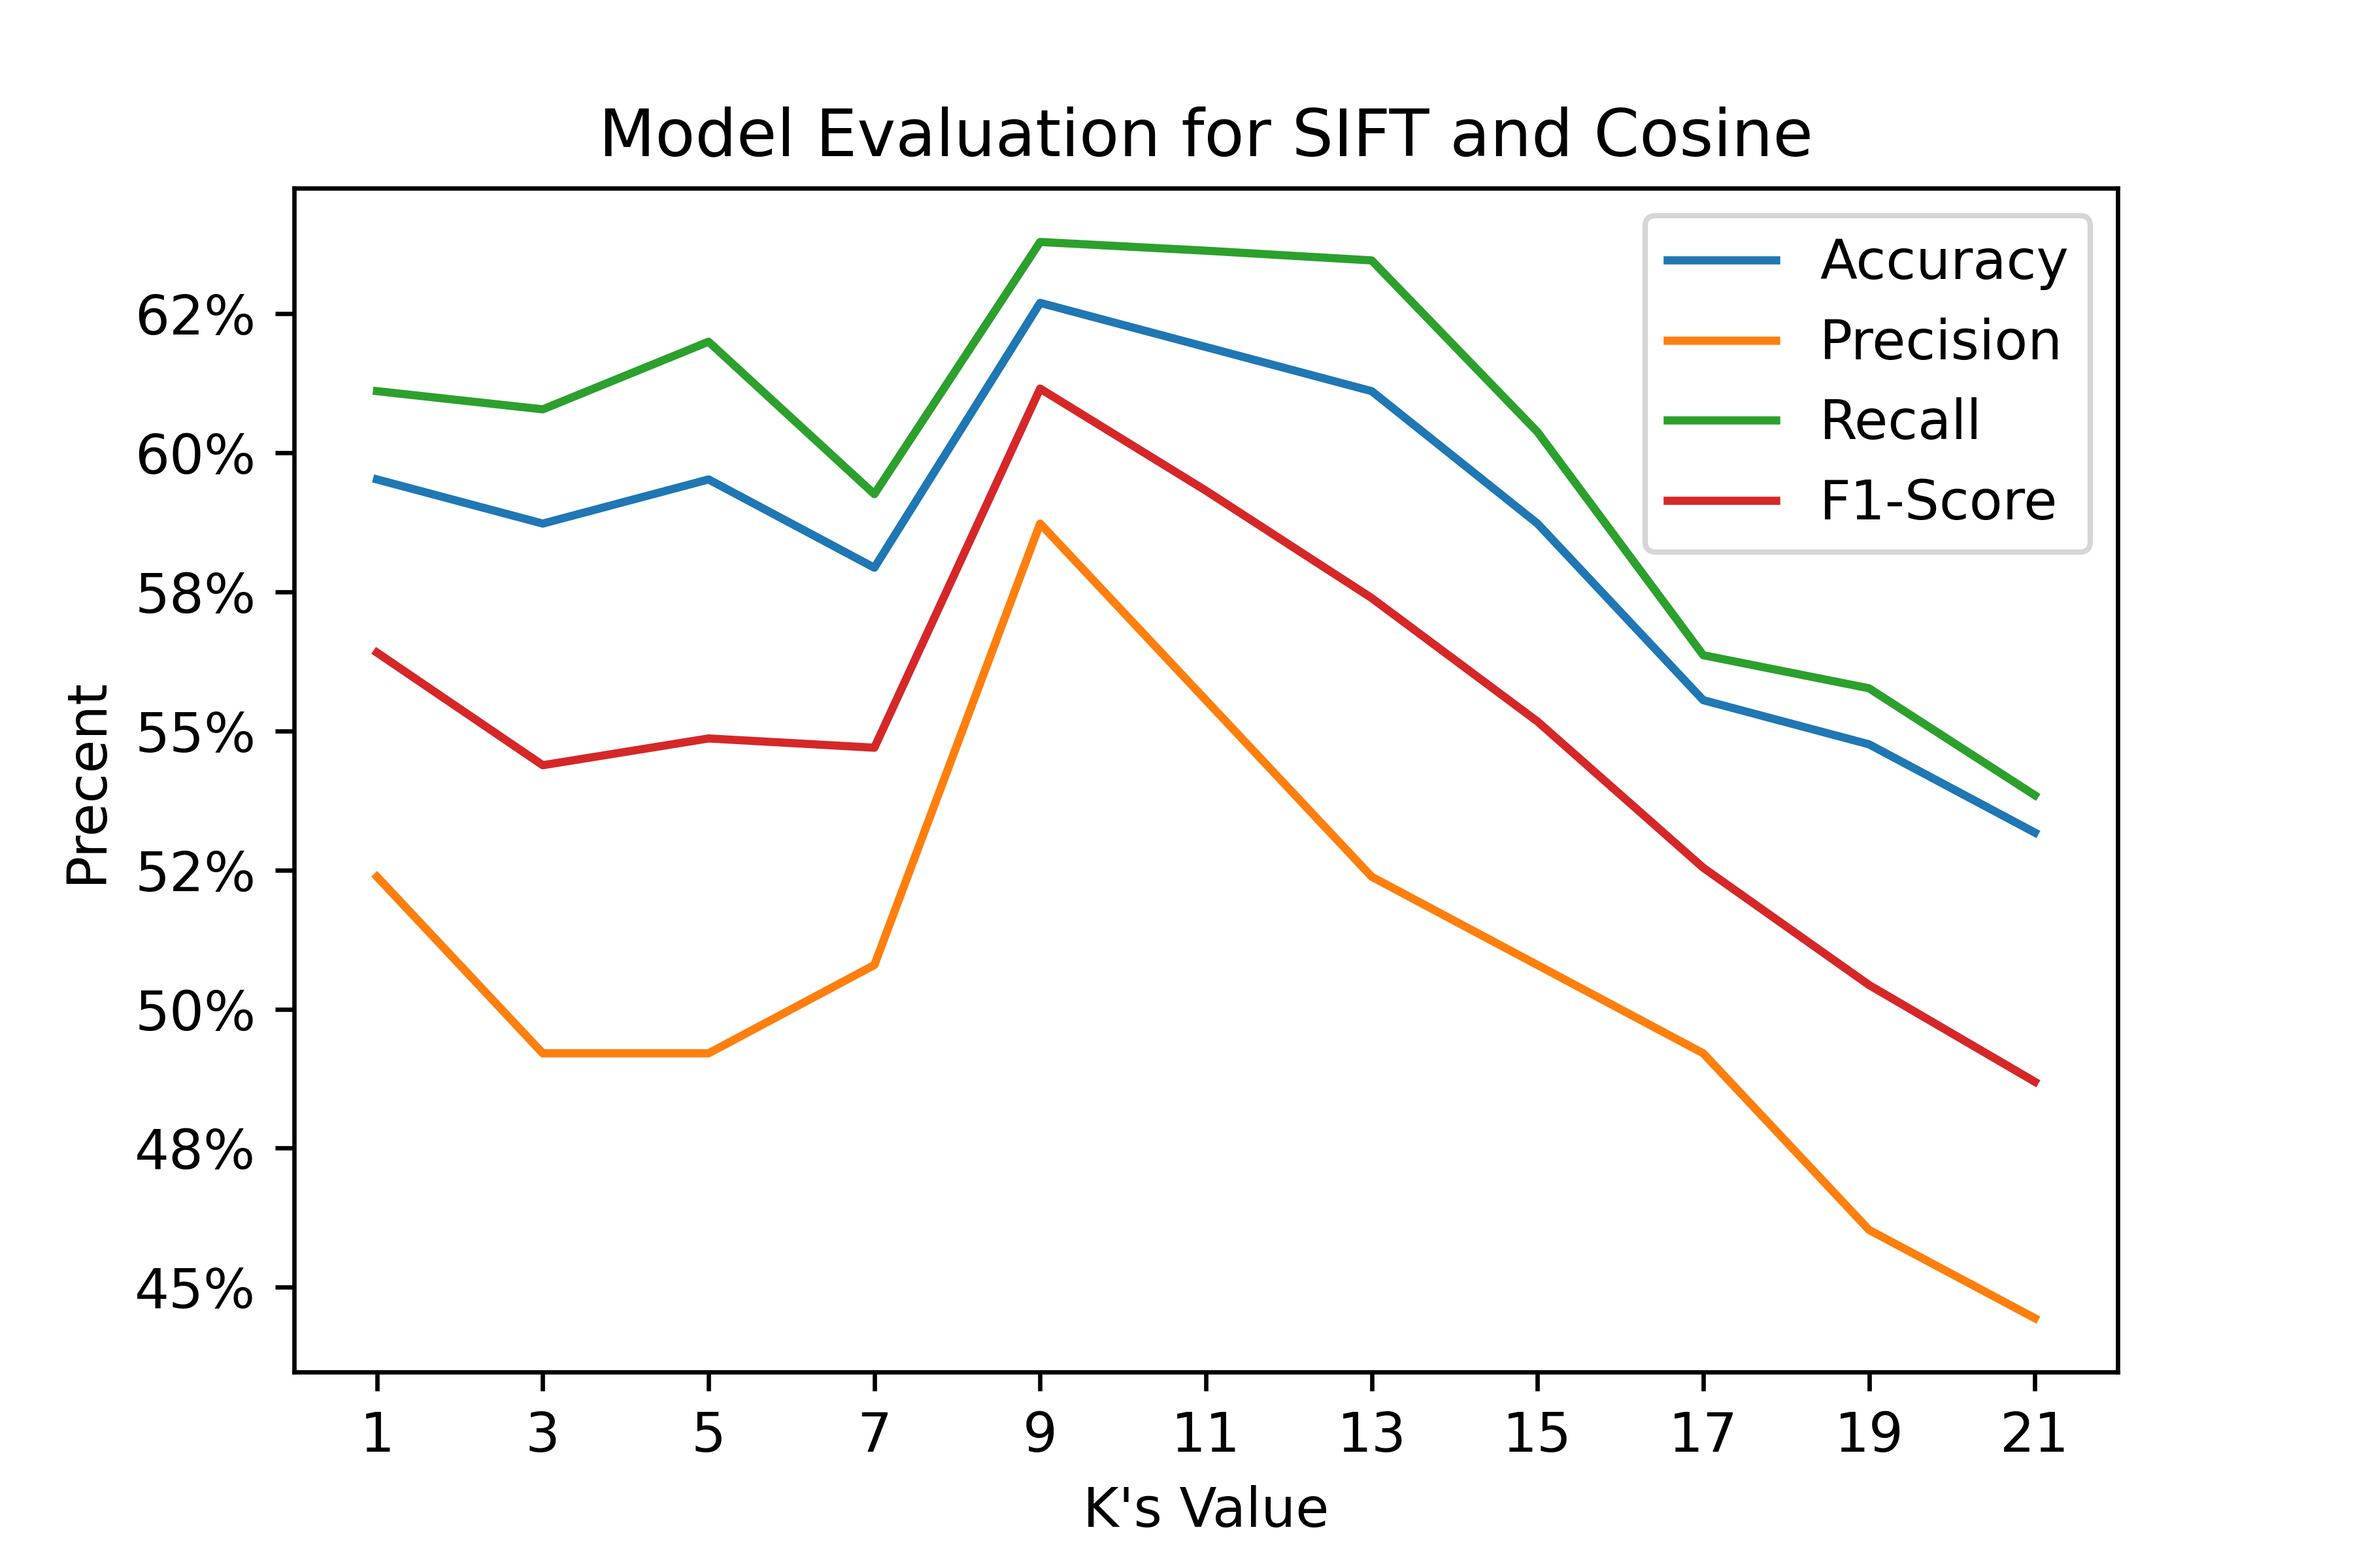
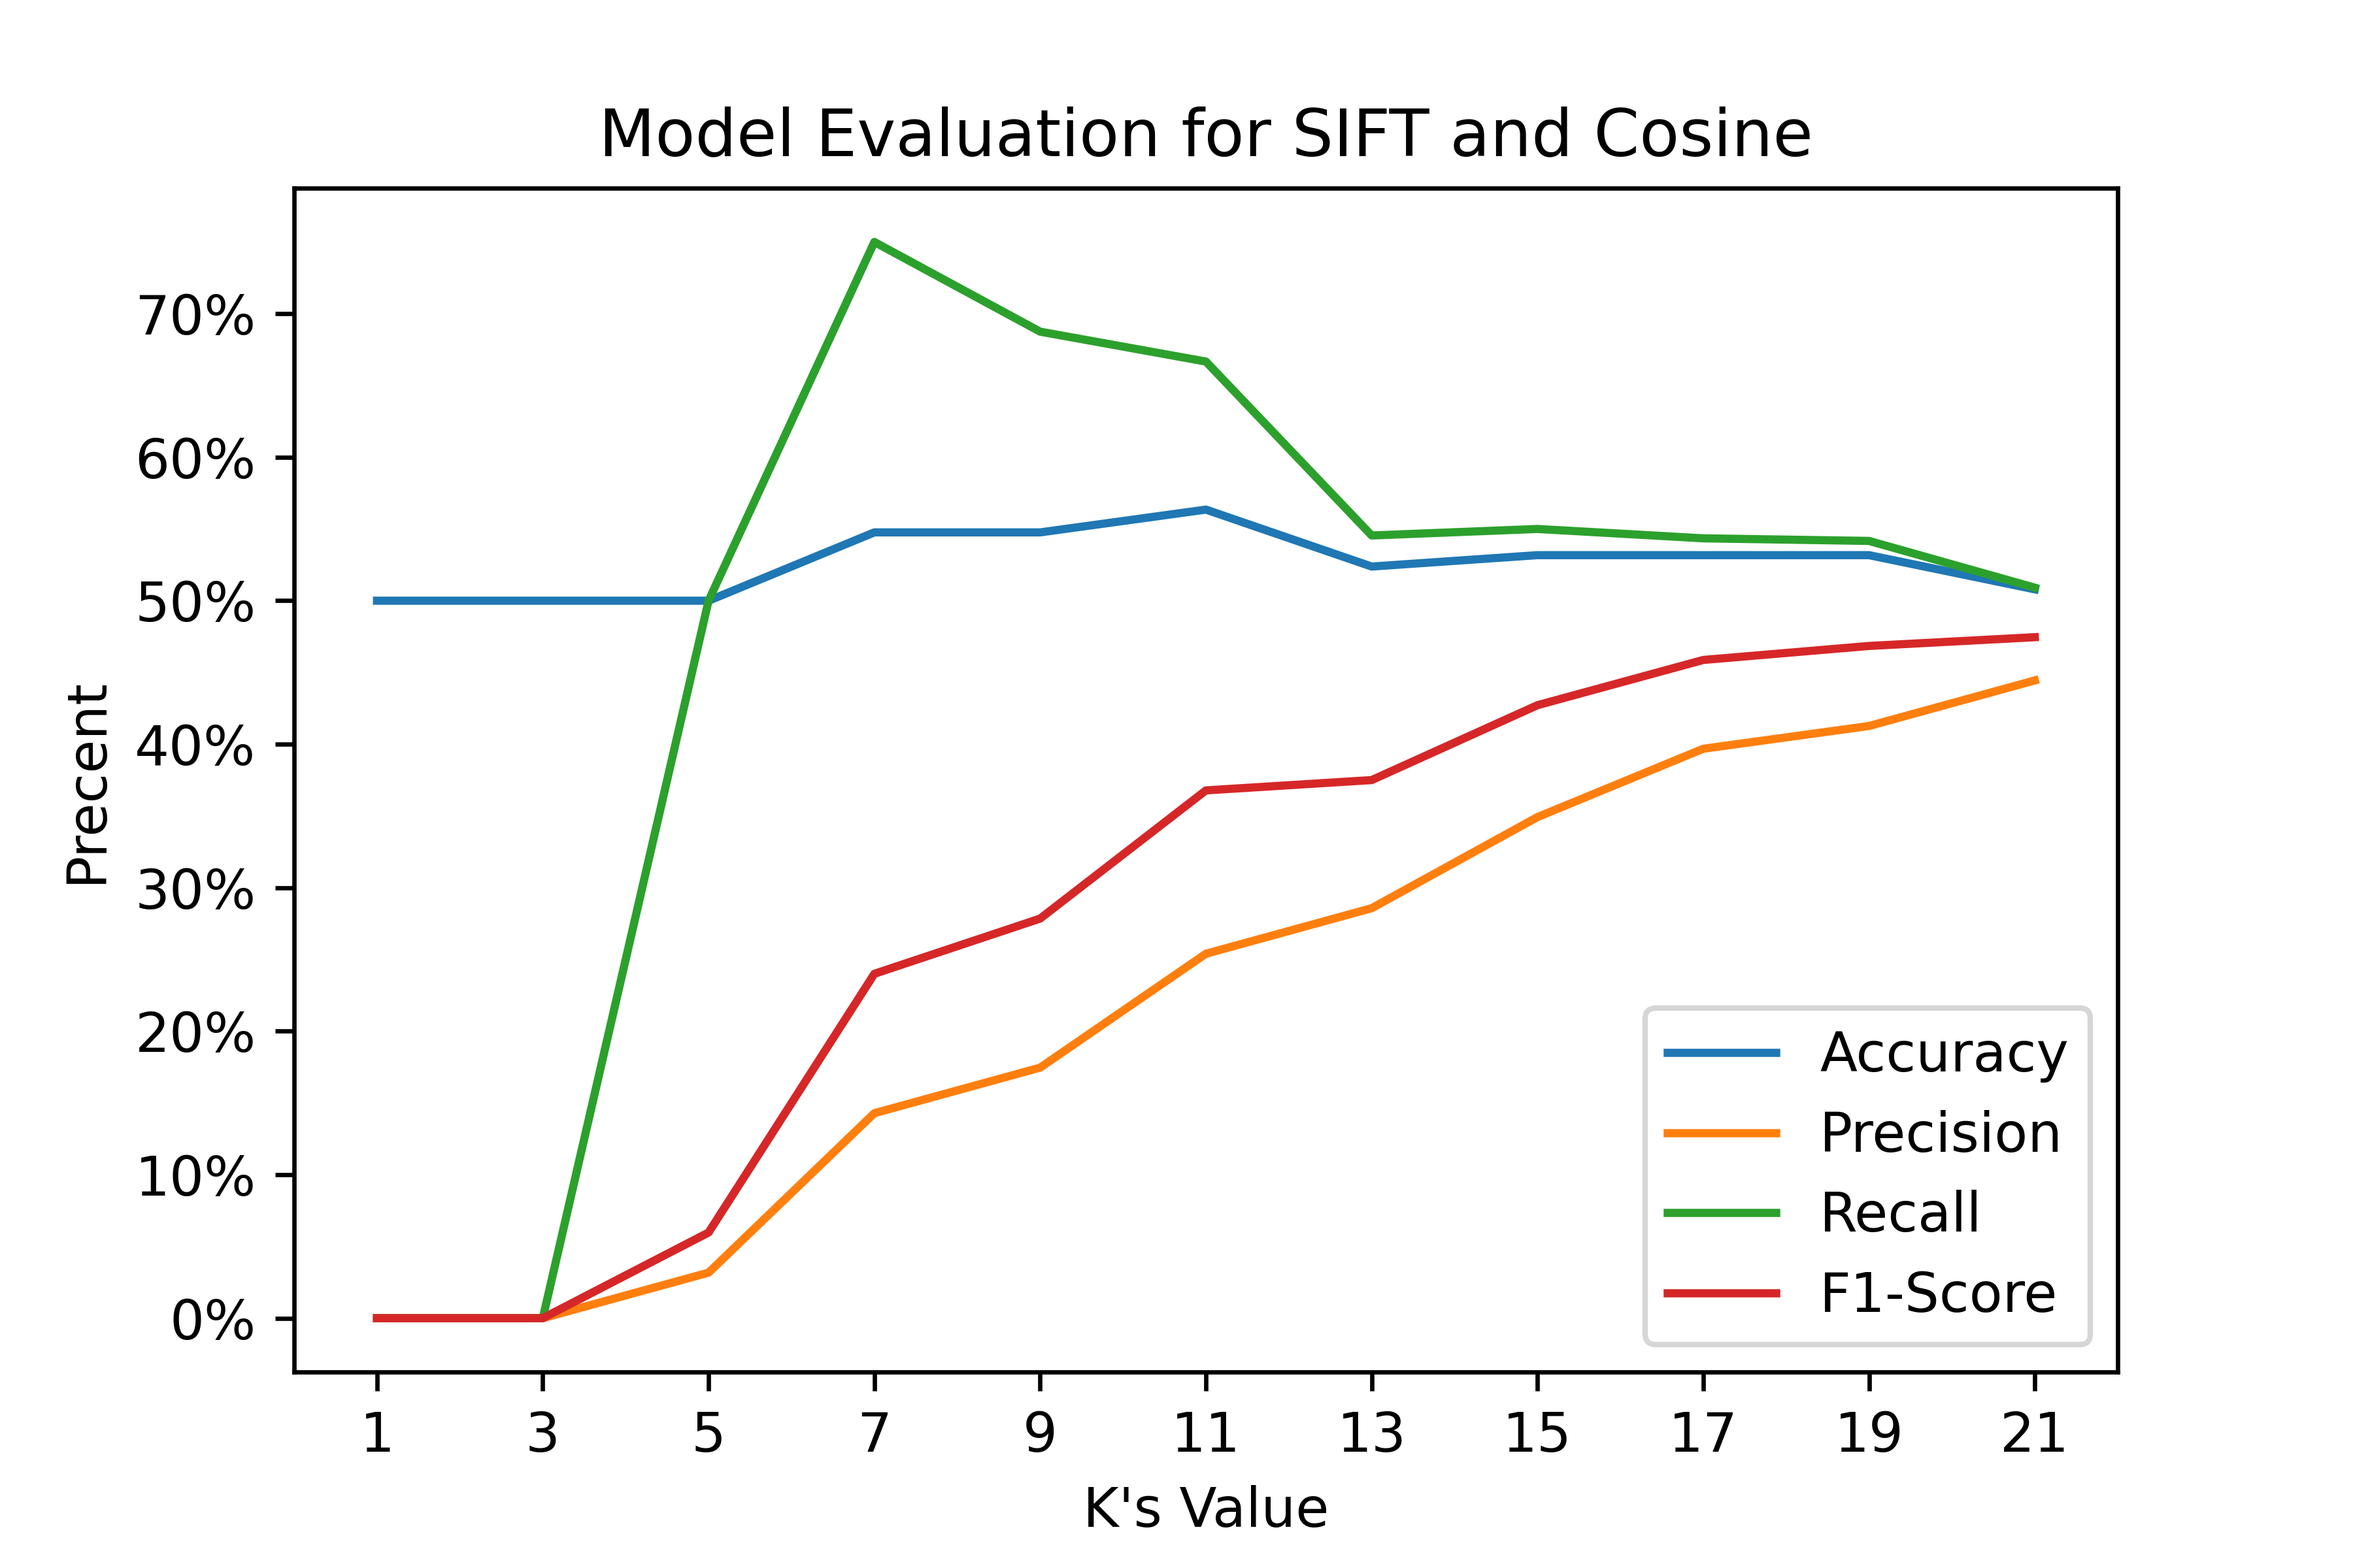
update

diff --git a/verification.py b/verification.py
@@ -3,9 +3,23 @@ from statistics import mode
 import json
 
 
-
 with open("./setting.json") as json_obj:
     mySetting = json.load(json_obj)
+
+def cal_distance(distance_type, point1, point2):
+    if distance_type == "Manhattan":     # Manhattan Distance
+        return np.sum(np.abs(point1 - point2))
+    
+    elif distance_type == "Euclidean":   # Euclidean Distance
+        return np.sqrt(np.sum(np.square(point1 - point2)))
+    
+    elif distance_type == "Chebyshev":   # Chebyshev Distance
+        return np.max(np.abs(point1 - point2))         
+    
+    elif distance_type == "Cosine":   # Cosine Distance
+        up = np.dot(point1, point2)           
+        down = np.sqrt(np.sum(np.square(point1))) * np.sqrt(np.sum(np.square(point2)))
+        return up/down
 
 
 for feature_type in mySetting["str_feature_type"]:
@@ -23,7 +37,8 @@ for feature_type in mySetting["str_feature_type"]:
                     for d_key, d_histograms in dataset.items():
                         
                         for d_histogram in d_histograms:            
-                            buff.append([np.sum(np.abs(s_histogram - d_histogram)), d_key])
+                            distance = cal_distance(distance_type, s_histogram, d_histogram)
+                            buff.append([distance, d_key])
                             
                     list.sort(buff)        
                     k_key = mode(np.asarray(buff[:k])[:, 1])
@@ -36,10 +51,18 @@ for feature_type in mySetting["str_feature_type"]:
                         if k_key == "Positive": confusion_martix[1, 0] = confusion_martix[1, 0] + 1 # FN
                         
             n_sample = np.sum(confusion_martix)
+            #if feature_type == "SIFT" and distance_type == "Cosine" and k == 1:
+            #    print(confusion_martix)
             Accuracy = (confusion_martix[1,1] + confusion_martix[0,0]) / n_sample
             Precision = confusion_martix[1,1] / (confusion_martix[1,1] + confusion_martix[0,1])
-            Recall = confusion_martix[1,1] / (confusion_martix[1,1] + confusion_martix[1,0])
-            F1_Score = 2 * Precision * Recall /  (Precision + Recall)
+            if confusion_martix[1,1] == 0 or confusion_martix[1,0] == 0:
+                Recall = 0
+            else:
+                Recall = confusion_martix[1,1] / (confusion_martix[1,1] + confusion_martix[1,0])
+            if Recall == 0:
+                F1_Score = 0
+            else:                
+                F1_Score = 2 * Precision * Recall /  (Precision + Recall)
             result.append([Accuracy, Precision, Recall, F1_Score])
             
         np.save("./result/Model Evaluation/{}_{}.npy".format(feature_type, distance_type), result)

diff --git a/TEST/test.py b/TEST/test.py
@@ -3,12 +3,15 @@ import cv2
 import datetime
 from statistics import mode
 
-k = 1
+k = 3
 
 BoVW_Model = np.load("../result/Key_Points_Description_by_SIFT.npy", allow_pickle=True)
 dataset = np.load("../result/dataset/SIFT_Euclidean.npy", allow_pickle=True).item()
 
 SIFT = cv2.xfeatures2d.SIFT_create()     
+
+def cal_distance(point1, point2):
+    return np.sum(np.abs(point1 - point2))
 
 def SIFT_features(image):                                                                     
     key_point, description = SIFT.detectAndCompute(image,None)                           
@@ -51,9 +54,10 @@ histogram = build_dataset(description)
 buff = []
 for d_key, d_histograms in dataset.items():                        
     for d_histogram in d_histograms:            
-        buff.append([np.sum(np.abs(histogram - d_histogram)), d_key])
+        buff.append([cal_distance(histogram, d_histogram), d_key])
         
 list.sort(buff)        
 k_key = mode(np.asarray(buff[:k])[:, 1])
 end_time = datetime.datetime.now()
+print(k_key)
 print(end_time - start_time)
